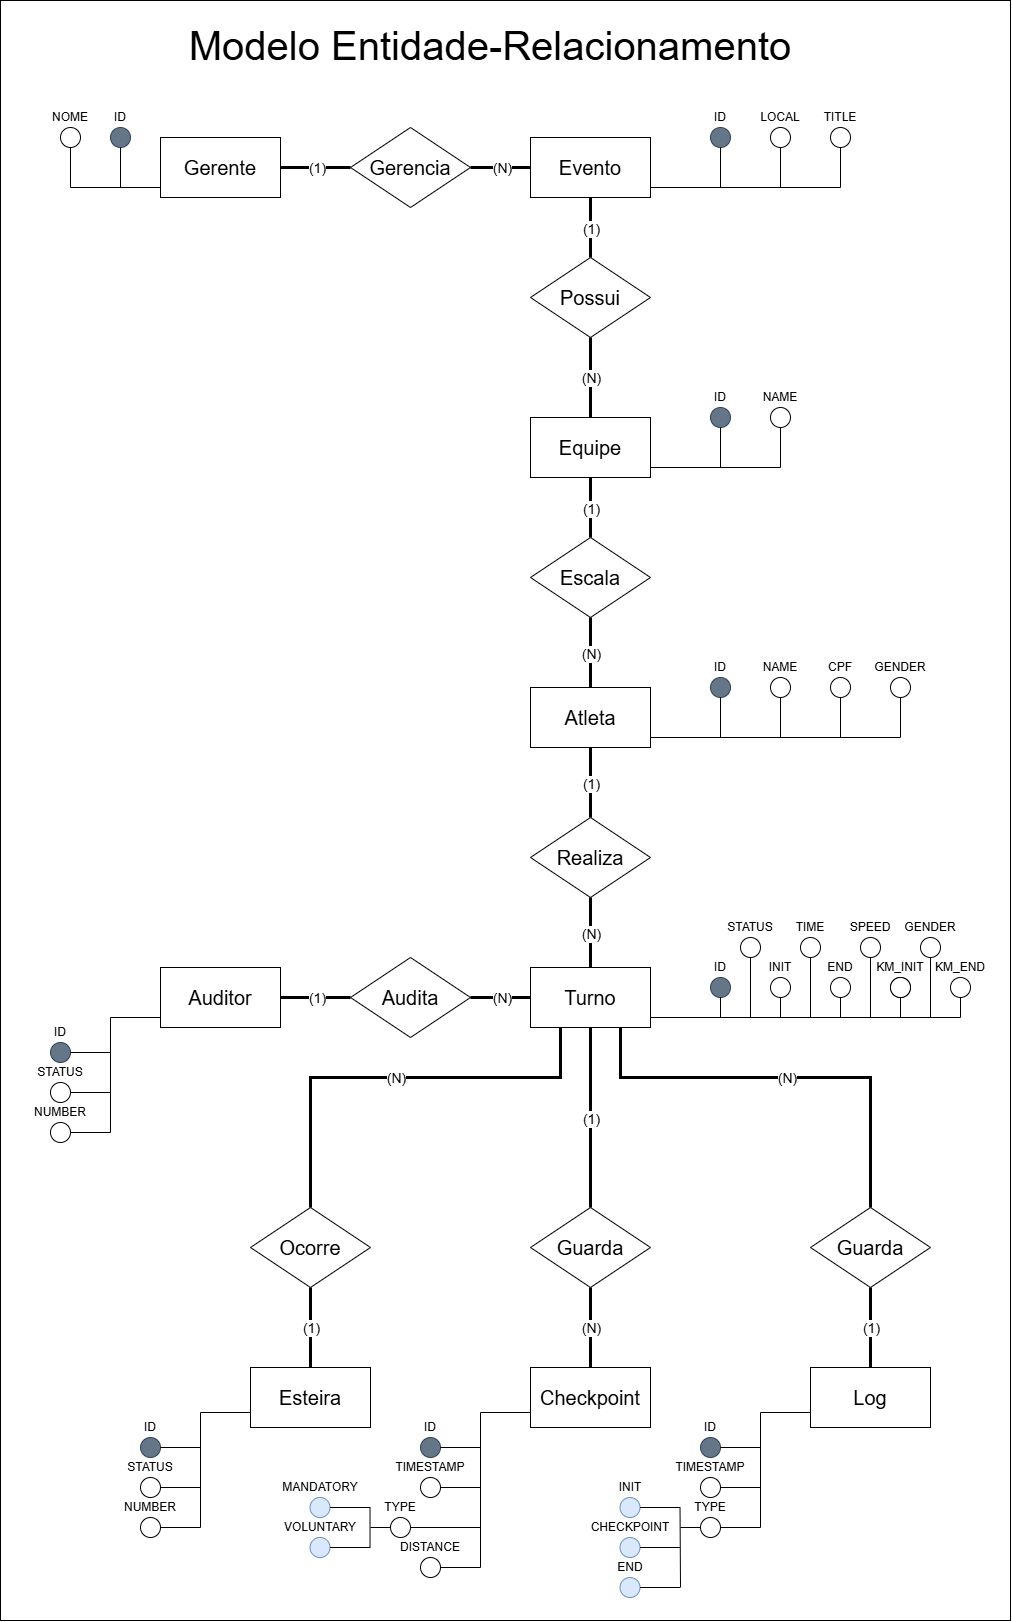
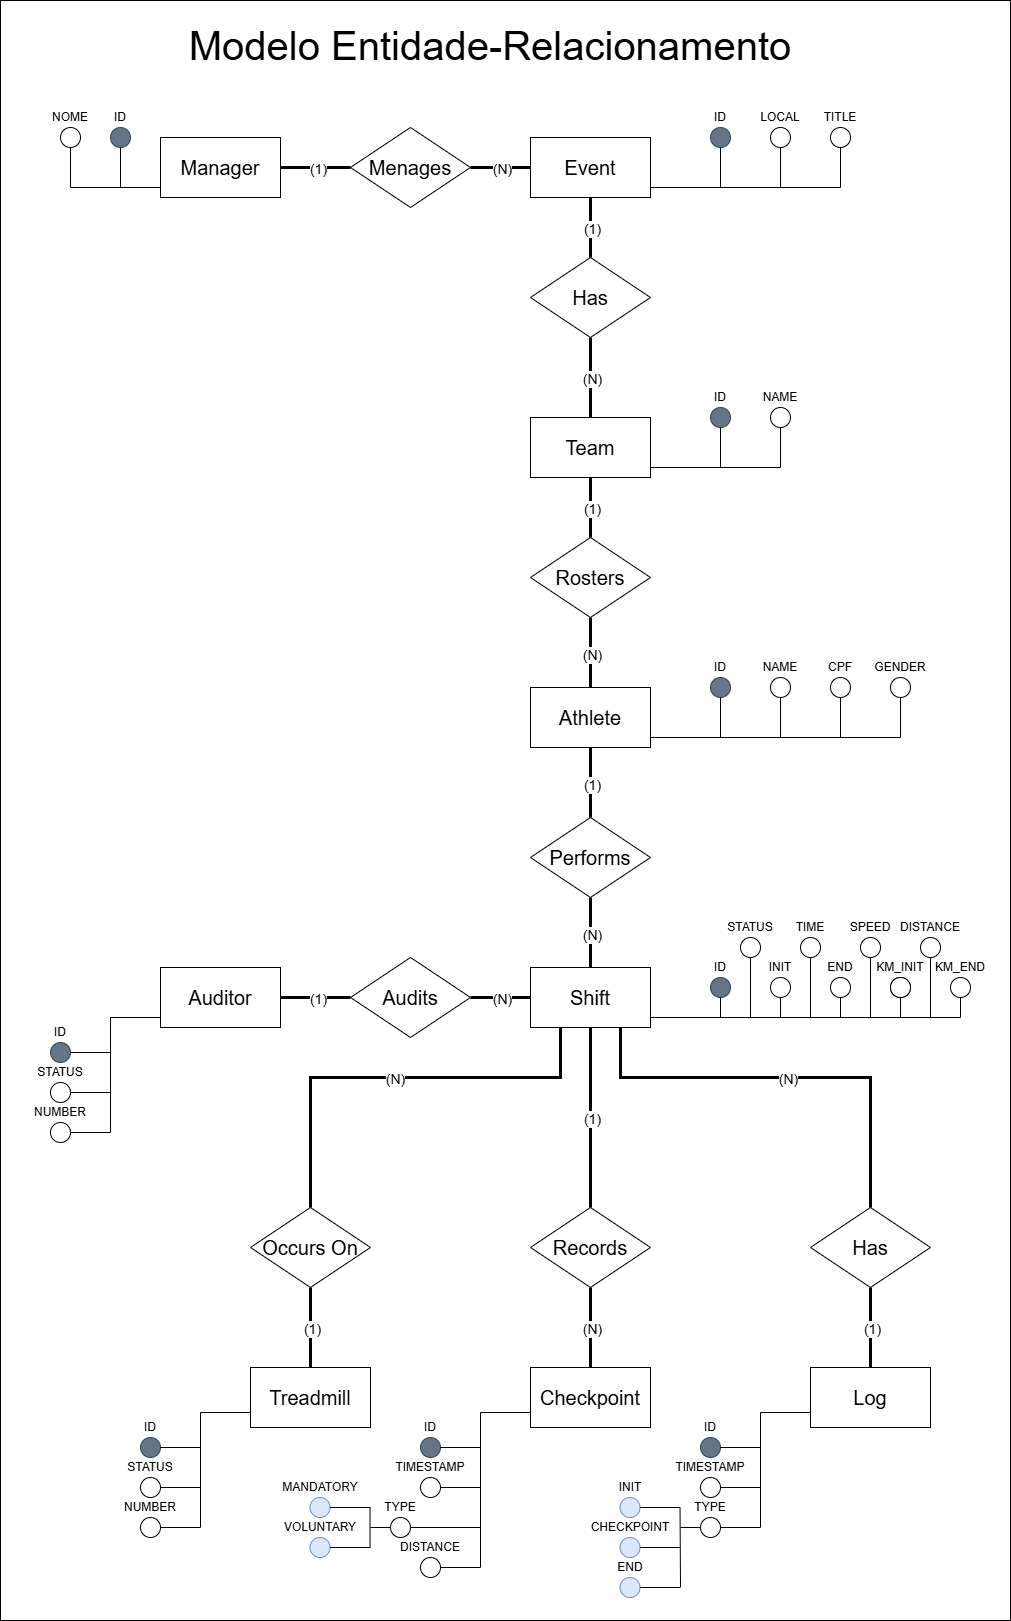
fix: corrige padronização do modelo ER para inglês

diff --git a/documentos/wad.md b/documentos/wad.md
@@ -1102,7 +1102,7 @@ _posicione aqui algumas imagens demonstrativas de seu protótipo de alta fidelid
 
 
 
-O Modelo Entidade-Relacionamento (MER) é a representação conceitual do banco de dados, na qual se descrevem as entidades do domínio, seus atributos e os relacionamentos que as conectam, abstraindo decisões de implementação física como tipos de dados, índices ou chaves estrangeiras. Para este projeto, o MER traduz em linguagem de dados o domínio do Red Bull 24 Horas modelado nas seções anteriores: o evento operado por um gerente, suas equipes e atletas, e o registro de cada sessão de corrida (turno) auditada à beira da esteira, com os checkpoints periódicos e logs que sustentam a apuração oficial da competição. A notação adotada é a de **Peter Chen**, na qual entidades são representadas por retângulos, atributos por elipses (com elipses preenchidas indicando chave primária e atributos compostos derivados do atributo-pai), relacionamentos por losangos e a cardinalidade explicitada nas extremidades de cada relacionamento com a razão (1) e (N).
+O Modelo Entidade-Relacionamento (MER) é a representação conceitual do banco de dados, na qual se descrevem as entidades do domínio, seus atributos e os relacionamentos que as conectam, abstraindo decisões de implementação física como tipos de dados, índices ou chaves estrangeiras. Para este projeto, o MER traduz em linguagem de dados o domínio do Red Bull 24 Horas modelado nas seções anteriores: o evento operado por um gerente (Manager), suas equipes (Team) e atletas (Athlete), e o registro de cada sessão de corrida (Shift) auditada à beira da esteira (Treadmill), com os checkpoints periódicos e logs que sustentam a apuração oficial da competição. A notação adotada é a de **Peter Chen**, na qual entidades são representadas por retângulos, atributos por elipses (com elipses preenchidas indicando chave primária e atributos compostos derivados do atributo-pai), relacionamentos por losangos e a cardinalidade explicitada nas extremidades de cada relacionamento com a razão (1) e (N). Os nomes de entidades, atributos e relacionamentos foram padronizados em inglês para garantir consistência com a nomenclatura técnica adotada no modelo relacional e no código-fonte da aplicação.
 
 <div align="center">
   <img src="./assets/modelo-entidade-relacionamento/Modelo-ER.png" width="80%" alt="Modelo Entidade-Relacionamento do projeto Red Bull 24 Horas"><br>
@@ -1115,17 +1115,17 @@ O Modelo Entidade-Relacionamento (MER) é a representação conceitual do banco 
 
 As entidades foram derivadas diretamente do domínio descrito no TAPI e dos casos de uso da seção 3.2.2, garantindo coerência entre o modelo conceitual de dados e o modelo comportamental do sistema. Cada entidade representa um conceito do mundo real que precisa ser persistido para sustentar a apuração e a auditoria das 24 horas de competição.
 
-| Entidade       | Descrição                                                                                                                                                                       | Atributos                                                            | Chave primária |
-| -------------- | ------------------------------------------------------------------------------------------------------------------------------------------------------------------------------- | -------------------------------------------------------------------- | -------------- |
-| **Gerente**    | Gerente regional do time de Field Marketing da Red Bull, responsável por instanciar e gerir os eventos sob sua regional.                                                        | `ID`, `NOME`                                                         | `ID`           |
-| **Evento**     | Instância de uma etapa do Red Bull 24 Horas (regional ou final nacional), identificada por local e título da edição.                                                            | `ID`, `LOCAL`, `TITLE`                                                | `ID`           |
-| **Equipe**     | Uma das duas equipes que competem no evento (tradicionalmente "azul" e "vermelha"), à qual os atletas são vinculados antes do início da competição.                             | `ID`, `NAME`                                                         | `ID`           |
-| **Atleta**     | Corredor inscrito que reveza com seu time durante as 24 horas, identificado pessoalmente por CPF para fins de auditoria pós-evento.                                             | `ID`, `NAME`, `CPF`, `GENDER`                                        | `ID`           |
-| **Auditor**    | Operador do sistema (substituindo a operação atual da prancheta) que registra os turnos e seus checkpoints à beira da esteira.                                                  | `ID`, `STATUS`, `NUMBER`                                             | `ID`           |
-| **Turno**      | Sessão individual de corrida — um único atleta em uma única esteira, do play até o stop, antes da próxima zeragem. É a entidade central do registro operacional do evento.      | `ID`, `STATUS`, `INIT`, `END`, `TIME`, `SPEED`, `KM_INIT`, `KM_END`, `GENDER` | `ID`           |
-| **Esteira**    | Equipamento físico (Technogym) onde os turnos ocorrem. Cada equipe opera duas esteiras simultaneamente durante o evento.                                                        | `ID`, `STATUS`, `NUMBER`                                             | `ID`           |
-| **Checkpoint** | Marcação periódica de segurança (referência de 5 em 5 minutos) que registra a quilometragem parcial dentro de um turno em andamento, permitindo recuperação em caso de falha técnica da esteira. | `ID`, `TIMESTAMP`, `TYPE` (`MANDATORY` / `VOLUNTARY`), `DISTANCE`    | `ID`           |
-| **Log**        | Registro auditável das ações executadas dentro de um turno (início, checkpoint e fim), garantindo rastreabilidade completa para a auditoria formal pós-evento.                  | `ID`, `TIMESTAMP`, `TYPE` (`INIT` / `CHECKPOINT` / `END`)            | `ID`           |
+| Entidade       | Descrição                                                                                                                                                                       | Atributos                                                                       | Chave primária |
+| -------------- | ------------------------------------------------------------------------------------------------------------------------------------------------------------------------------- | ------------------------------------------------------------------------------- | -------------- |
+| **Manager**    | Gerente regional do time de Field Marketing da Red Bull, responsável por instanciar e gerir os eventos sob sua regional.                                                        | `ID`, `NOME`                                                                    | `ID`           |
+| **Event**      | Instância de uma etapa do Red Bull 24 Horas (regional ou final nacional), identificada por local e título da edição.                                                            | `ID`, `LOCAL`, `TITLE`                                                          | `ID`           |
+| **Team**       | Uma das duas equipes que competem no evento (tradicionalmente "azul" e "vermelha"), à qual os atletas são vinculados antes do início da competição.                             | `ID`, `NAME`                                                                    | `ID`           |
+| **Athlete**    | Corredor inscrito que reveza com seu time durante as 24 horas, identificado pessoalmente por CPF para fins de auditoria pós-evento.                                             | `ID`, `NAME`, `CPF`, `GENDER`                                                   | `ID`           |
+| **Auditor**    | Operador do sistema (substituindo a operação atual da prancheta) que registra os turnos e seus checkpoints à beira da esteira.                                                  | `ID`, `STATUS`, `NUMBER`                                                        | `ID`           |
+| **Shift**      | Sessão individual de corrida — um único atleta em uma única esteira, do play até o stop, antes da próxima zeragem. É a entidade central do registro operacional do evento.      | `ID`, `STATUS`, `INIT`, `END`, `TIME`, `SPEED`, `KM_INIT`, `KM_END`, `DISTANCE` | `ID`           |
+| **Treadmill**  | Equipamento físico (Technogym) onde os turnos ocorrem. Cada equipe opera duas esteiras simultaneamente durante o evento.                                                        | `ID`, `STATUS`, `NUMBER`                                                        | `ID`           |
+| **Checkpoint** | Marcação periódica de segurança (referência de 5 em 5 minutos) que registra a quilometragem parcial dentro de um turno em andamento, permitindo recuperação em caso de falha técnica da esteira. | `ID`, `TIMESTAMP`, `TYPE` (`MANDATORY` / `VOLUNTARY`), `DISTANCE`               | `ID`           |
+| **Log**        | Registro auditável das ações executadas dentro de um turno (início, checkpoint e fim), garantindo rastreabilidade completa para a auditoria formal pós-evento.                  | `ID`, `TIMESTAMP`, `TYPE` (`INIT` / `CHECKPOINT` / `END`)                       | `ID`           |
 
 <div align="center">
   <sub>Quadro 18 - Entidades e atributos do MER</sub><br>
@@ -1139,14 +1139,14 @@ Os relacionamentos foram modelados a partir das regras de negócio levantadas na
 
 | Relacionamento | Entidade A | Cardinalidade | Entidade B  | Descrição                                                                                                                                                                                                |
 | -------------- | ---------- | ------------- | ----------- | -------------------------------------------------------------------------------------------------------------------------------------------------------------------------------------------------------- |
-| **Gerencia**   | Gerente    | (1, N)        | Evento      | Um gerente regional pode gerir vários eventos (etapas regionais distintas ao longo da temporada), mas cada evento é gerido por exatamente um gerente responsável.                                        |
-| **Possui**     | Evento     | (1, N)        | Equipe      | Cada evento possui múltiplas equipes (no mínimo as duas equipes que se enfrentam), e cada equipe pertence a um único evento — a entidade Equipe é instanciada por edição, refletindo a natureza efêmera da competição. |
-| **Escala**     | Equipe     | (1, N)        | Atleta      | Uma equipe escala vários atletas (tipicamente 16 por equipe, conforme briefing), e cada atleta pertence a uma única equipe dentro de um mesmo evento.                                                    |
-| **Realiza**    | Atleta     | (1, N)        | Turno       | Um atleta realiza vários turnos durante as 24 horas (cada entrada na esteira é um turno distinto), e cada turno é realizado por exatamente um atleta — refletindo a regra de que a esteira é zerada a cada troca de corredor. |
-| **Audita**     | Auditor    | (1, N)        | Turno       | Um auditor é responsável por auditar diversos turnos ao longo do seu plantão na operação, e cada turno é auditado por exatamente um auditor, garantindo responsabilidade unívoca sobre cada registro.    |
-| **Ocorre**     | Turno      | (N, 1)        | Esteira     | Vários turnos ocorrem ao longo das 24 horas em uma mesma esteira (que é zerada entre eles), enquanto cada turno acontece em uma única esteira específica.                                                |
-| **Guarda**     | Turno      | (1, N)        | Checkpoint  | Cada turno guarda múltiplos checkpoints periódicos (a marcação de 5 em 5 minutos descrita pelo parceiro), enquanto cada checkpoint pertence a exatamente um turno — não existe checkpoint isolado fora de uma sessão de corrida ativa. |
-| **Guarda**     | Turno      | (1, 1)        | Log         | Cada turno guarda exatamente um log de ações associado, que armazena cronologicamente os eventos `INIT`, `CHECKPOINT` e `END` daquela sessão, sustentando a trilha de auditoria pós-evento.              |
+| **Manages**    | Manager    | (1, N)        | Event       | Um gerente regional pode gerir vários eventos (etapas regionais distintas ao longo da temporada), mas cada evento é gerido por exatamente um gerente responsável.                                        |
+| **Has**        | Event      | (1, N)        | Team        | Cada evento possui múltiplas equipes (no mínimo as duas equipes que se enfrentam), e cada equipe pertence a um único evento — a entidade Team é instanciada por edição, refletindo a natureza efêmera da competição. |
+| **Rosters**    | Team       | (1, N)        | Athlete     | Uma equipe escala vários atletas (tipicamente 16 por equipe, conforme briefing), e cada atleta pertence a uma única equipe dentro de um mesmo evento.                                                    |
+| **Performs**   | Athlete    | (1, N)        | Shift       | Um atleta realiza vários turnos durante as 24 horas (cada entrada na esteira é um turno distinto), e cada turno é realizado por exatamente um atleta — refletindo a regra de que a esteira é zerada a cada troca de corredor. |
+| **Audits**     | Auditor    | (1, N)        | Shift       | Um auditor é responsável por auditar diversos turnos ao longo do seu plantão na operação, e cada turno é auditado por exatamente um auditor, garantindo responsabilidade unívoca sobre cada registro.    |
+| **Occurs On**  | Shift      | (N, 1)        | Treadmill   | Vários turnos ocorrem ao longo das 24 horas em uma mesma esteira (que é zerada entre eles), enquanto cada turno acontece em uma única esteira específica.                                                |
+| **Records**    | Shift      | (1, N)        | Checkpoint  | Cada turno guarda múltiplos checkpoints periódicos (a marcação de 5 em 5 minutos descrita pelo parceiro), enquanto cada checkpoint pertence a exatamente um turno — não existe checkpoint isolado fora de uma sessão de corrida ativa. |
+| **Has**        | Shift      | (1, 1)        | Log         | Cada turno guarda exatamente um log de ações associado, que armazena cronologicamente os eventos `INIT`, `CHECKPOINT` e `END` daquela sessão, sustentando a trilha de auditoria pós-evento.              |
 
 <div align="center">
   <sub>Quadro 19 - Relacionamentos e cardinalidades do MER</sub><br>
@@ -1158,15 +1158,15 @@ Os relacionamentos foram modelados a partir das regras de negócio levantadas na
 
 Três decisões merecem destaque por traduzirem diretamente as regras de negócio do Red Bull 24 Horas para o modelo de dados:
 
-- **Turno como entidade central:** a quilometragem do evento não é monotônica em relação à esteira nem à equipe, pois a esteira é zerada a cada troca de corredor (dinâmica detalhada no Modelo de Sessão de Corrida da seção 3.2.2). Por isso, o **Turno** foi modelado como entidade de primeira classe — com `KM_INIT`, `KM_END`, `INIT` e `END` próprios — e não como um simples registro derivado da esteira ou da equipe. O total acumulado de uma equipe é, portanto, sempre uma função agregada sobre os turnos finalizados de seus atletas, e não um atributo persistido diretamente.
+- **Shift como entidade central:** a quilometragem do evento não é monotônica em relação à esteira nem à equipe, pois a esteira é zerada a cada troca de corredor (dinâmica detalhada no Modelo de Sessão de Corrida da seção 3.2.2). Por isso, o **Shift** foi modelado como entidade de primeira classe — com `KM_INIT`, `KM_END`, `INIT` e `END` próprios — e não como um simples registro derivado da esteira ou da equipe. O total acumulado de uma equipe é, portanto, sempre uma função agregada sobre os turnos finalizados de seus atletas, e não um atributo persistido diretamente.
 
 - **Checkpoint tipado (`MANDATORY` / `VOLUNTARY`):** o atributo `TYPE` do Checkpoint distingue as marcações automáticas obrigatórias (de 5 em 5 minutos, conforme protocolo) das marcações voluntárias feitas pelo auditor (por exemplo, antes de uma troca de velocidade decidida pelo atleta). Essa distinção é essencial para a auditoria pós-evento e para a oportunidade de padronização entre as cinco regionais identificada na matriz de riscos (seção 2.1.5).
 
-- **Log como entidade dedicada à auditoria:** apesar de aparentemente redundante em relação aos timestamps já presentes em Turno e Checkpoint, o **Log** isola a trilha de auditoria do modelo operacional. Ele responde diretamente ao risco "Erro humano na leitura e digitação da quilometragem" (seção 2.1.5), garantindo o histórico de alterações exigido pelo caso de uso "Editar registro" (seção 3.2.2) sem poluir as entidades de negócio com colunas de controle.
+- **Log como entidade dedicada à auditoria:** apesar de aparentemente redundante em relação aos timestamps já presentes em Shift e Checkpoint, o **Log** isola a trilha de auditoria do modelo operacional. Ele responde diretamente ao risco "Erro humano na leitura e digitação da quilometragem" (seção 2.1.5), garantindo o histórico de alterações exigido pelo caso de uso "Editar registro" (seção 3.2.2) sem poluir as entidades de negócio com colunas de controle.
 
 **Síntese do Modelo Entidade-Relacionamento**
 
-O MER traduz o domínio do Red Bull 24 Horas em um modelo conceitual de dados rastreável, no qual cada entidade tem propósito claro dentro do fluxo operacional (cadastro pré-evento → registro de turnos → checkpoints periódicos → encerramento → auditoria). A escolha do Turno como entidade central refletindo o conceito de **sessão de corrida**, somada às entidades Checkpoint e Log que sustentam a confiabilidade e a rastreabilidade dos dados, alinha o modelo de dados às prioridades de mitigação de risco da seção 2.1.5 e aos casos de uso da seção 3.2.2. Esse alinhamento garante que o banco de dados forneça base sólida tanto para a operação em tempo real durante as 24h quanto para a auditoria formal pós-evento e para as análises estatísticas inéditas identificadas como oportunidades do projeto.
+O MER traduz o domínio do Red Bull 24 Horas em um modelo conceitual de dados rastreável, no qual cada entidade tem propósito claro dentro do fluxo operacional (cadastro pré-evento → registro de turnos → checkpoints periódicos → encerramento → auditoria). A escolha do Shift como entidade central refletindo o conceito de **sessão de corrida**, somada às entidades Checkpoint e Log que sustentam a confiabilidade e a rastreabilidade dos dados, alinha o modelo de dados às prioridades de mitigação de risco da seção 2.1.5 e aos casos de uso da seção 3.2.2. Esse alinhamento garante que o banco de dados forneça base sólida tanto para a operação em tempo real durante as 24h quanto para a auditoria formal pós-evento e para as análises estatísticas inéditas identificadas como oportunidades do projeto.
 
 ### 3.6.2. Diagrama Entidade-Relacionamento (DER) (sprint 2)
 